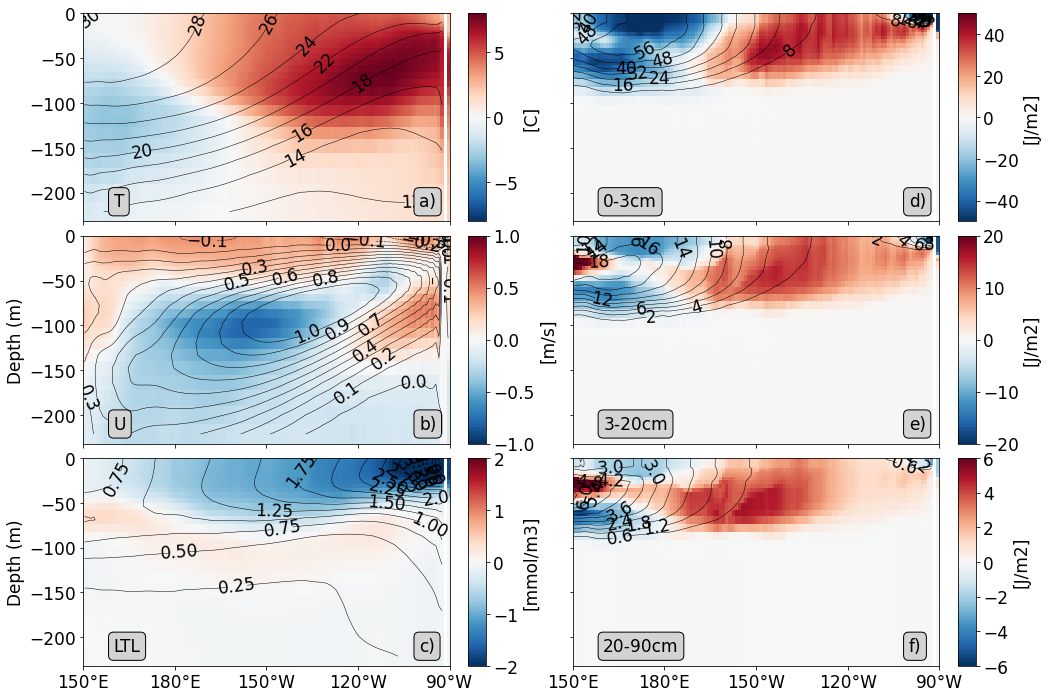
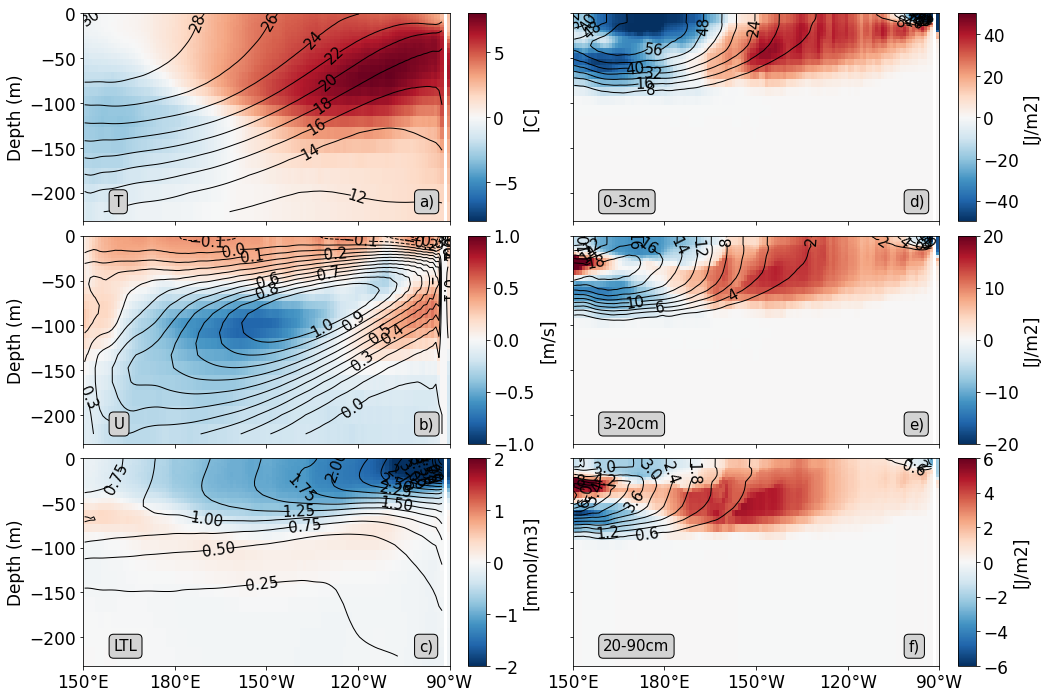
Update figures

diff --git a/scripts/new-97/plot_profiles_mean_ond97.py b/scripts/new-97/plot_profiles_mean_ond97.py
@@ -64,8 +64,8 @@ fig = plt.figure(figsize=(16, 12))
 axgr = ImageGrid(fig, 111, nrows_ncols=(3, 2), ngrids=None, direction='row', axes_pad=(1.2, 0.2), share_all=True, aspect=False, label_mode='L', cbar_mode='each', cbar_location='right', cbar_pad='5%', cbar_size='5%', cbar_set_cax=True, axes_class=None)
 cbar_axes = axgr.cbar_axes
 
-plt.rcParams['lines.linewidth'] = 0.5
-plt.rcParams['font.size'] = 17
+plt.rcParams['lines.linewidth'] = 1
+plt.rcParams['font.size'] = 15
 plt.rcParams['image.cmap'] = 'RdBu_r'
 
 lontext = 260
@@ -95,6 +95,7 @@ cb.set_label('[C]')
 cs.set_clim(-8, 8)
 ax.text(lontext2, ztext, 'T', **dictext2)
 ax.text(lontext, ztext, 'a)', **dictext2)
+ax.set_ylabel('Depth (m)')
 
 # plotiing uo
 cpt = 2
@@ -136,7 +137,6 @@ for v in varlist:
 step = 0.05
 cl = ax.contour(lon0[iok], -depth[:-1], clim[:-1, iok], 21, colors='k')
 plt.clabel(cl)
-print(anom[0, iok])
 cs = ax.pcolormesh(lon0[iok], -depth[:-1], anom[:-1, iok], shading='auto')
 cb = plt.colorbar(cs, cbar_axes[cpt])
 cb.set_label('[mmol/m3]')
